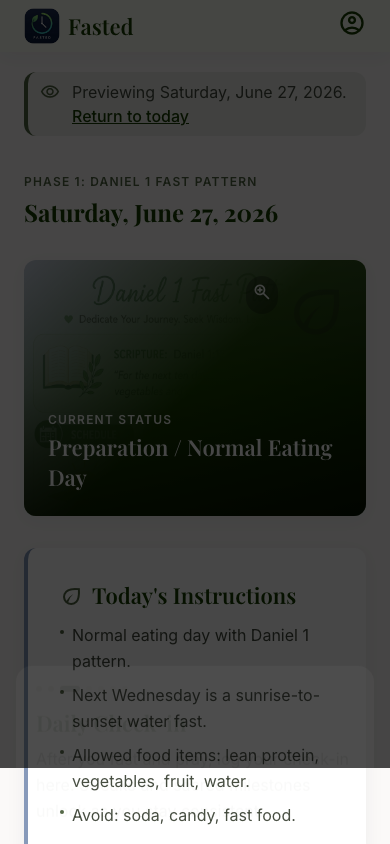
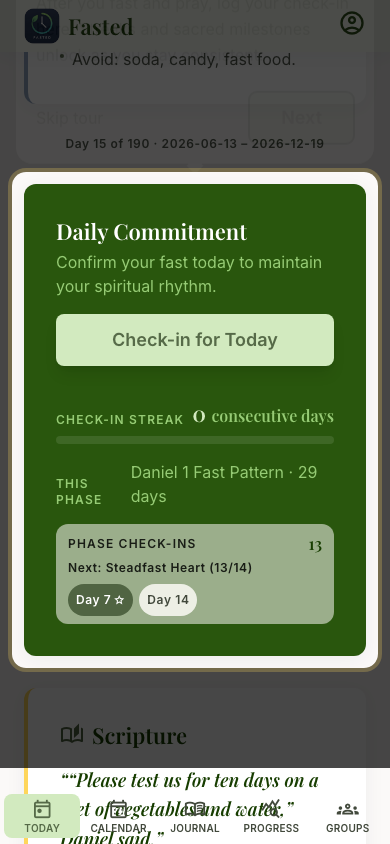
fix(tour): scroll Daily Commitment step into viewport center
Center the check-in card between the header and bottom nav before
spotlighting, and place its tooltip above so controls stay reachable.

diff --git a/src/components/Tour/TourOverlay.tsx b/src/components/Tour/TourOverlay.tsx
@@ -43,9 +43,27 @@ function waitForPaint(): Promise<void> {
   });
 }
 
+/** Visible viewport between fixed header and bottom nav (matches Layout.tsx). */
+const TOUR_HEADER_OFFSET_PX = 72;
+const TOUR_NAV_OFFSET_PX = 76;
+
+function scrollTargetToVisibleCenter(el: Element): void {
+  const rect = el.getBoundingClientRect();
+  const visibleTop = TOUR_HEADER_OFFSET_PX;
+  const visibleBottom = window.innerHeight - TOUR_NAV_OFFSET_PX;
+  const visibleCenter = visibleTop + (visibleBottom - visibleTop) / 2;
+  const elementCenter = rect.top + rect.height / 2;
+  const delta = elementCenter - visibleCenter;
+
+  if (Math.abs(delta) < 8) return;
+
+  window.scrollBy({ top: delta, behavior: 'instant' });
+}
+
 function useTargetRect(
   selector: string | undefined,
   stepIndex: number,
+  scroll: TourStep['scroll'],
 ): { rect: Rect | null; ready: boolean } {
   const [rect, setRect] = useState<Rect | null>(null);
   const [ready, setReady] = useState(() => !selector);
@@ -63,6 +81,7 @@ function useTargetRect(
     let cancelled = false;
     let observer: ResizeObserver | null = null;
     let retryTimer = 0;
+    let scrolled = false;
 
     function applyRect(el: Element) {
       const next = readRect(el);
@@ -98,6 +117,11 @@ function useTargetRect(
         await waitForPaint();
         const el = measure();
         if (el) {
+          if (scroll === 'center' && !scrolled) {
+            scrollTargetToVisibleCenter(el);
+            scrolled = true;
+            await waitForPaint();
+          }
           const next = readRect(el);
           if (isStableTarget(el, next)) {
             applyRect(el);
@@ -113,6 +137,10 @@ function useTargetRect(
       if (cancelled) return;
       const el = measure();
       if (el) {
+        if (scroll === 'center' && !scrolled) {
+          scrollTargetToVisibleCenter(el);
+          await waitForPaint();
+        }
         applyRect(el);
         attachObserver(el);
       } else {
@@ -127,7 +155,7 @@ function useTargetRect(
       window.clearTimeout(retryTimer);
       observer?.disconnect();
     };
-  }, [selector, stepIndex]);
+  }, [selector, stepIndex, scroll]);
 
   return { rect, ready };
 }
@@ -135,7 +163,11 @@ function useTargetRect(
 export function TourOverlay() {
   const { active, currentStep, stepIndex, totalSteps, nextStep, skipTour } = useTour();
   const [vh, setVh] = useState(window.innerHeight);
-  const { rect: targetRect, ready: targetReady } = useTargetRect(currentStep?.target, stepIndex);
+  const { rect: targetRect, ready: targetReady } = useTargetRect(
+    currentStep?.target,
+    stepIndex,
+    currentStep?.scroll,
+  );
 
   useEffect(() => {
     if (!active) return;

diff --git a/src/components/Tour/TourContext.tsx b/src/components/Tour/TourContext.tsx
@@ -18,6 +18,8 @@ export type TourStep = {
   title: string;
   body: string;
   placement?: 'top' | 'bottom' | 'center';
+  /** Scroll the target into the visible viewport center before spotlighting. */
+  scroll?: 'center';
   /** Label for the primary action button */
   nextLabel?: string;
 };
@@ -42,7 +44,8 @@ export const TOUR_STEPS: TourStep[] = [
     target: '[data-tour="checkin-btn"]',
     title: 'Daily Check-in',
     body: 'After you fast and pray, log your check-in here. Streaks and sacred milestones unlock as you stay consistent.',
-    placement: 'bottom',
+    placement: 'top',
+    scroll: 'center',
   },
   {
     id: 'nav-journal',
@@ -144,6 +147,7 @@ export function TourProvider({ children }: Props) {
     setManualStart(true);
     navigate('/');
     setStepIndex(0);
+    window.scrollTo({ top: 0, behavior: 'instant' });
     window.setTimeout(() => setActive(true), 300);
   }, [navigate]);
 